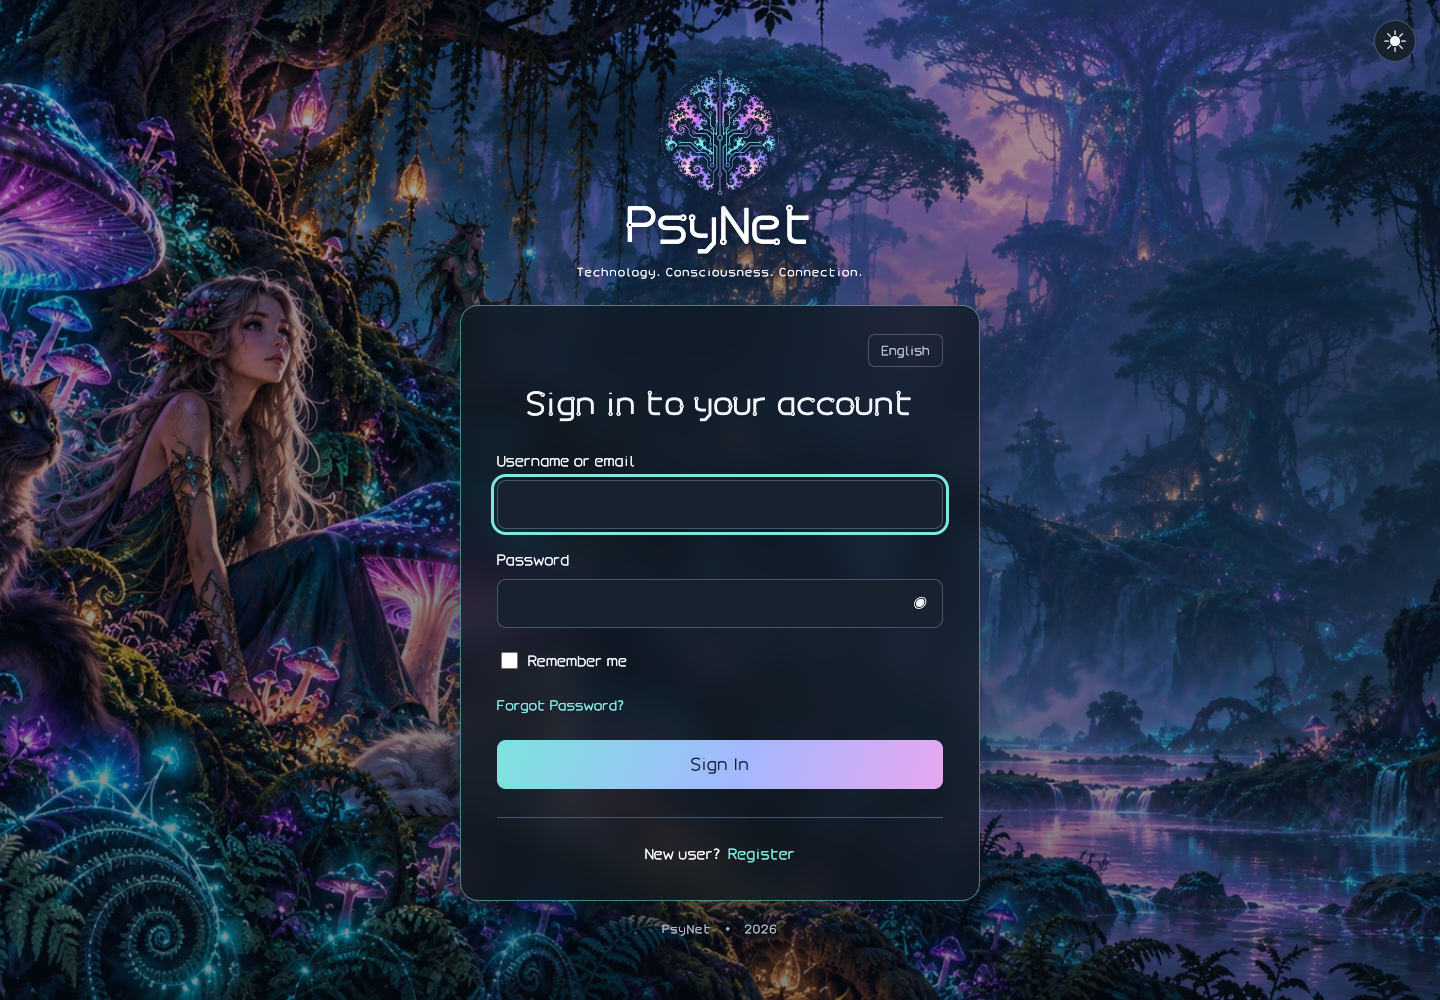
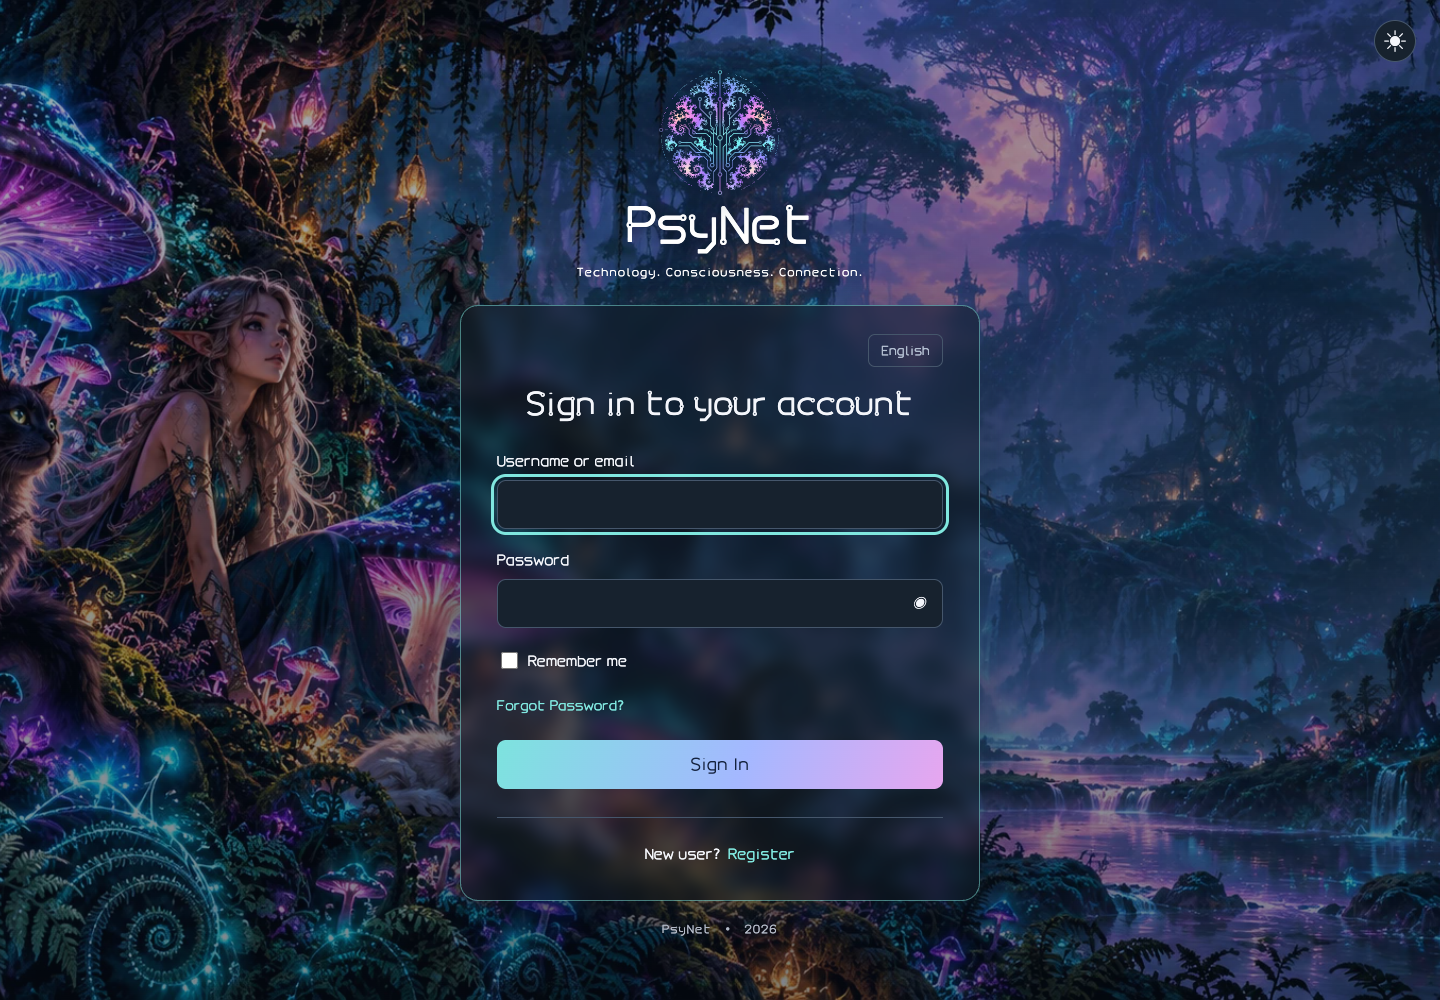
Tune login glass transparency and reduce background blur

diff --git a/src/login/theme.css b/src/login/theme.css
@@ -1,15 +1,15 @@
 @font-face{font-family:PsySans;src:url('./assets/PsyNet-Sans.woff2') format('woff2');font-display:swap}@font-face{font-family:PsyCircuit;src:url('./assets/PsyNet-Circuit.woff2') format('woff2');font-display:swap}
 *{box-sizing:border-box}body{margin:0;font-family:PsySans,system-ui,sans-serif}/* Full-screen forest, with the brand above a centered form card. */
-.psy-shell{--surface:rgba(16,24,33,.76);--field:#17222e;--text:#f4f6fb;--muted:#b4c0d2;--line:#45566b;--accent:#80e7df;--frame:rgba(128,231,223,.5);position:relative;isolation:isolate;min-height:100svh;display:flex;flex-direction:column;align-items:center;padding:40px 24px;color:var(--text);background:#0b1523}
+.psy-shell{--surface:rgba(16,24,33,.5);--field:#17222e;--text:#f4f6fb;--muted:#b4c0d2;--line:#45566b;--accent:#80e7df;--frame:rgba(128,231,223,.5);position:relative;isolation:isolate;min-height:100svh;display:flex;flex-direction:column;align-items:center;padding:40px 24px;color:var(--text);background:#0b1523}
 .psy-shell::before{content:"";position:fixed;inset:0;z-index:-1;background:linear-gradient(180deg,rgba(5,15,34,.35),rgba(6,14,28,.5)),url('./assets/forest.webp') center/cover no-repeat;pointer-events:none}
-.psy-shell[data-appearance=light]{--surface:rgba(246,245,250,.84);--field:#fff;--text:#202739;--muted:#566178;--line:#a1adc0;--accent:#365ec7;--frame:rgba(205,225,255,.85)}
+.psy-shell[data-appearance=light]{--surface:rgba(246,245,250,.75);--field:#fff;--text:#202739;--muted:#566178;--line:#a1adc0;--accent:#365ec7;--frame:rgba(205,225,255,.85)}
 .psy-access{width:100%;max-width:520px;min-width:0;margin-block:auto}
-.psy-brand{position:relative;z-index:1;display:flex;align-items:center;flex-direction:column;margin-bottom:24px;color:#fff;text-shadow:0 2px 16px #071022;text-align:center}
+.psy-brand{position:relative;z-index:1;transform:translateZ(0);display:flex;align-items:center;flex-direction:column;margin-bottom:24px;color:#fff;text-shadow:0 2px 16px #071022;text-align:center}
 .psy-brand img{width:132px;height:auto;filter:drop-shadow(0 5px 18px #061326)}
 .psy-wordmark{font-family:PsyCircuit,PsySans;font-size:48px;line-height:1.3}
 .psy-brand p{font-size:11px;letter-spacing:.1em;margin:6px 0 0;line-height:1.6}
 .psy-toggle{position:absolute;top:20px;right:24px;border:1px solid var(--line);background:var(--field);color:var(--text);border-radius:50%;width:42px;height:42px;font:25px system-ui;cursor:pointer;z-index:2}
-.psy-form{width:100%;padding:28px 36px 32px;background:var(--surface);border:1px solid var(--frame);border-radius:18px;box-shadow:0 20px 70px #030a1c80,0 0 28px #80e7df14;-webkit-backdrop-filter:blur(16px);backdrop-filter:blur(16px)}
+.psy-form{width:100%;padding:28px 36px 32px;background:var(--surface);border:1px solid var(--frame);border-radius:18px;box-shadow:0 20px 70px #030a1c80,0 0 28px #80e7df14;-webkit-backdrop-filter:blur(8px);backdrop-filter:blur(8px)}
 #kc-header{display:none}#kc-page-title{font-family:PsyCircuit,PsySans,sans-serif;font-size:30px;font-weight:400;line-height:1.4;margin:12px 0 26px;text-align:center;overflow-wrap:anywhere}a{color:var(--accent);text-decoration:none}a:hover{text-decoration:underline}label{display:block;font-size:14px;margin:0 0 9px}input:not([type=checkbox]):not([type=radio]):not([type=submit]),select,textarea{width:100%;min-height:49px;border:1px solid var(--line);border-radius:9px;background:var(--field);color:var(--text);padding:12px 14px;font:16px PsySans,system-ui}input:focus-visible,select:focus-visible,button:focus-visible,a:focus-visible{outline:3px solid var(--accent);outline-offset:3px}input[aria-invalid=true]{border-color:#e5758c}input[type=checkbox],input[type=radio]{accent-color:var(--accent);width:17px;height:17px;vertical-align:middle}input[type=submit],button[type=submit]{border:0;border-radius:9px;min-height:49px;padding:12px 18px;background:linear-gradient(110deg,#7de3de,#a4b8ff 55%,#e7a6ef);color:#14223e;font:16px PsySans;cursor:pointer;width:100%}button:disabled,input:disabled{opacity:.55;cursor:default}.form-group{margin-bottom:21px}.checkbox label{display:flex;align-items:center;gap:7px}.kcFormOptionsWrapperClass,#kc-form-options{font-size:13px}#kc-form-options{display:flex;align-items:center;justify-content:space-between;gap:12px;margin:5px 0 24px}#kc-form-options .checkbox label{margin:0}#kc-form-buttons{margin-top:25px}#kc-info{margin-top:28px;padding-top:24px;border-top:1px solid var(--line);text-align:center;font-size:14px;line-height:1.8}#kc-registration span{display:flex;gap:8px;justify-content:center;flex-wrap:wrap}.alert{padding:14px;border:1px solid var(--line);border-radius:9px;margin-bottom:24px;line-height:1.5}.alert-error{border-color:#e5758c}.alert-success{border-color:#4cab93}#input-error,#input-error-username,#input-error-password,[id^=input-error-]{color:#e5758c;display:block;font-size:13px;margin-top:8px}.psy-shell[data-appearance=light] [id^=input-error]{color:#aa2443}.pf-c-input-group{position:relative;display:flex}.pf-c-input-group input{padding-right:50px!important}.pf-c-input-group button{position:absolute;right:1px;top:1px;width:46px;height:47px;border:0;background:none;color:var(--text);cursor:pointer}.fa-eye:before{content:'◉'}.fa-eye-slash:before{content:'◌'}#kc-locale{display:flex;justify-content:flex-end;font-size:12px;margin-bottom:16px}#kc-locale-dropdown{position:relative}#kc-locale-dropdown button{font:inherit;color:var(--muted);background:transparent;border:1px solid var(--line);border-radius:7px;padding:7px 12px;cursor:pointer}#kc-locale-dropdown ul{display:none;position:absolute;right:0;z-index:5;min-width:160px;max-height:260px;overflow:auto;margin:4px 0;padding:8px;list-style:none;border:1px solid var(--line);background:var(--field);border-radius:8px}#kc-locale-dropdown [aria-expanded=true]+ul,#kc-locale-dropdown:focus-within ul{display:block}#kc-locale-dropdown a{display:block;padding:8px}#kc-social-providers ul{list-style:none;padding:0;display:grid;gap:10px}#kc-social-providers a{display:block;text-align:center;border:1px solid var(--line);padding:13px;border-radius:9px}#kc-social-providers h2{font-size:14px;font-weight:400;color:var(--muted);text-align:center}.required,.subtitle{color:var(--muted);font-size:12px}#kc-form-wrapper p,#kc-content p{line-height:1.7;font-size:14px;color:var(--muted)}.psy-access footer{text-align:center;color:#e0e7f3;font:11px PsyCircuit,PsySans;margin-top:20px;letter-spacing:.1em;text-shadow:0 2px 8px #071022}.psy-access footer span{padding:0 8px}ul{padding-left:22px}hr{border:0;border-top:1px solid var(--line);margin:24px 0}#kc-form-login-otp .pf-c-tile{padding:12px;border:1px solid var(--line);border-radius:9px;margin:8px 0}.pf-c-tile input{width:auto}#kc-back{margin:20px 0}#kc-attempted-username{font-size:16px}#kc-reset-login{margin-left:10px}
 @media(max-width:600px){.psy-shell{padding:68px 16px 24px}.psy-brand{margin-bottom:20px}.psy-brand img{width:100px}.psy-wordmark{font-size:38px}.psy-brand p{font-size:10px}.psy-form{padding:22px 22px 26px;border-radius:14px}#kc-page-title{font-size:26px}.psy-toggle{top:16px;right:16px}#kc-form-options{flex-wrap:wrap}}
 @media(prefers-reduced-motion:reduce){*{scroll-behavior:auto}}
